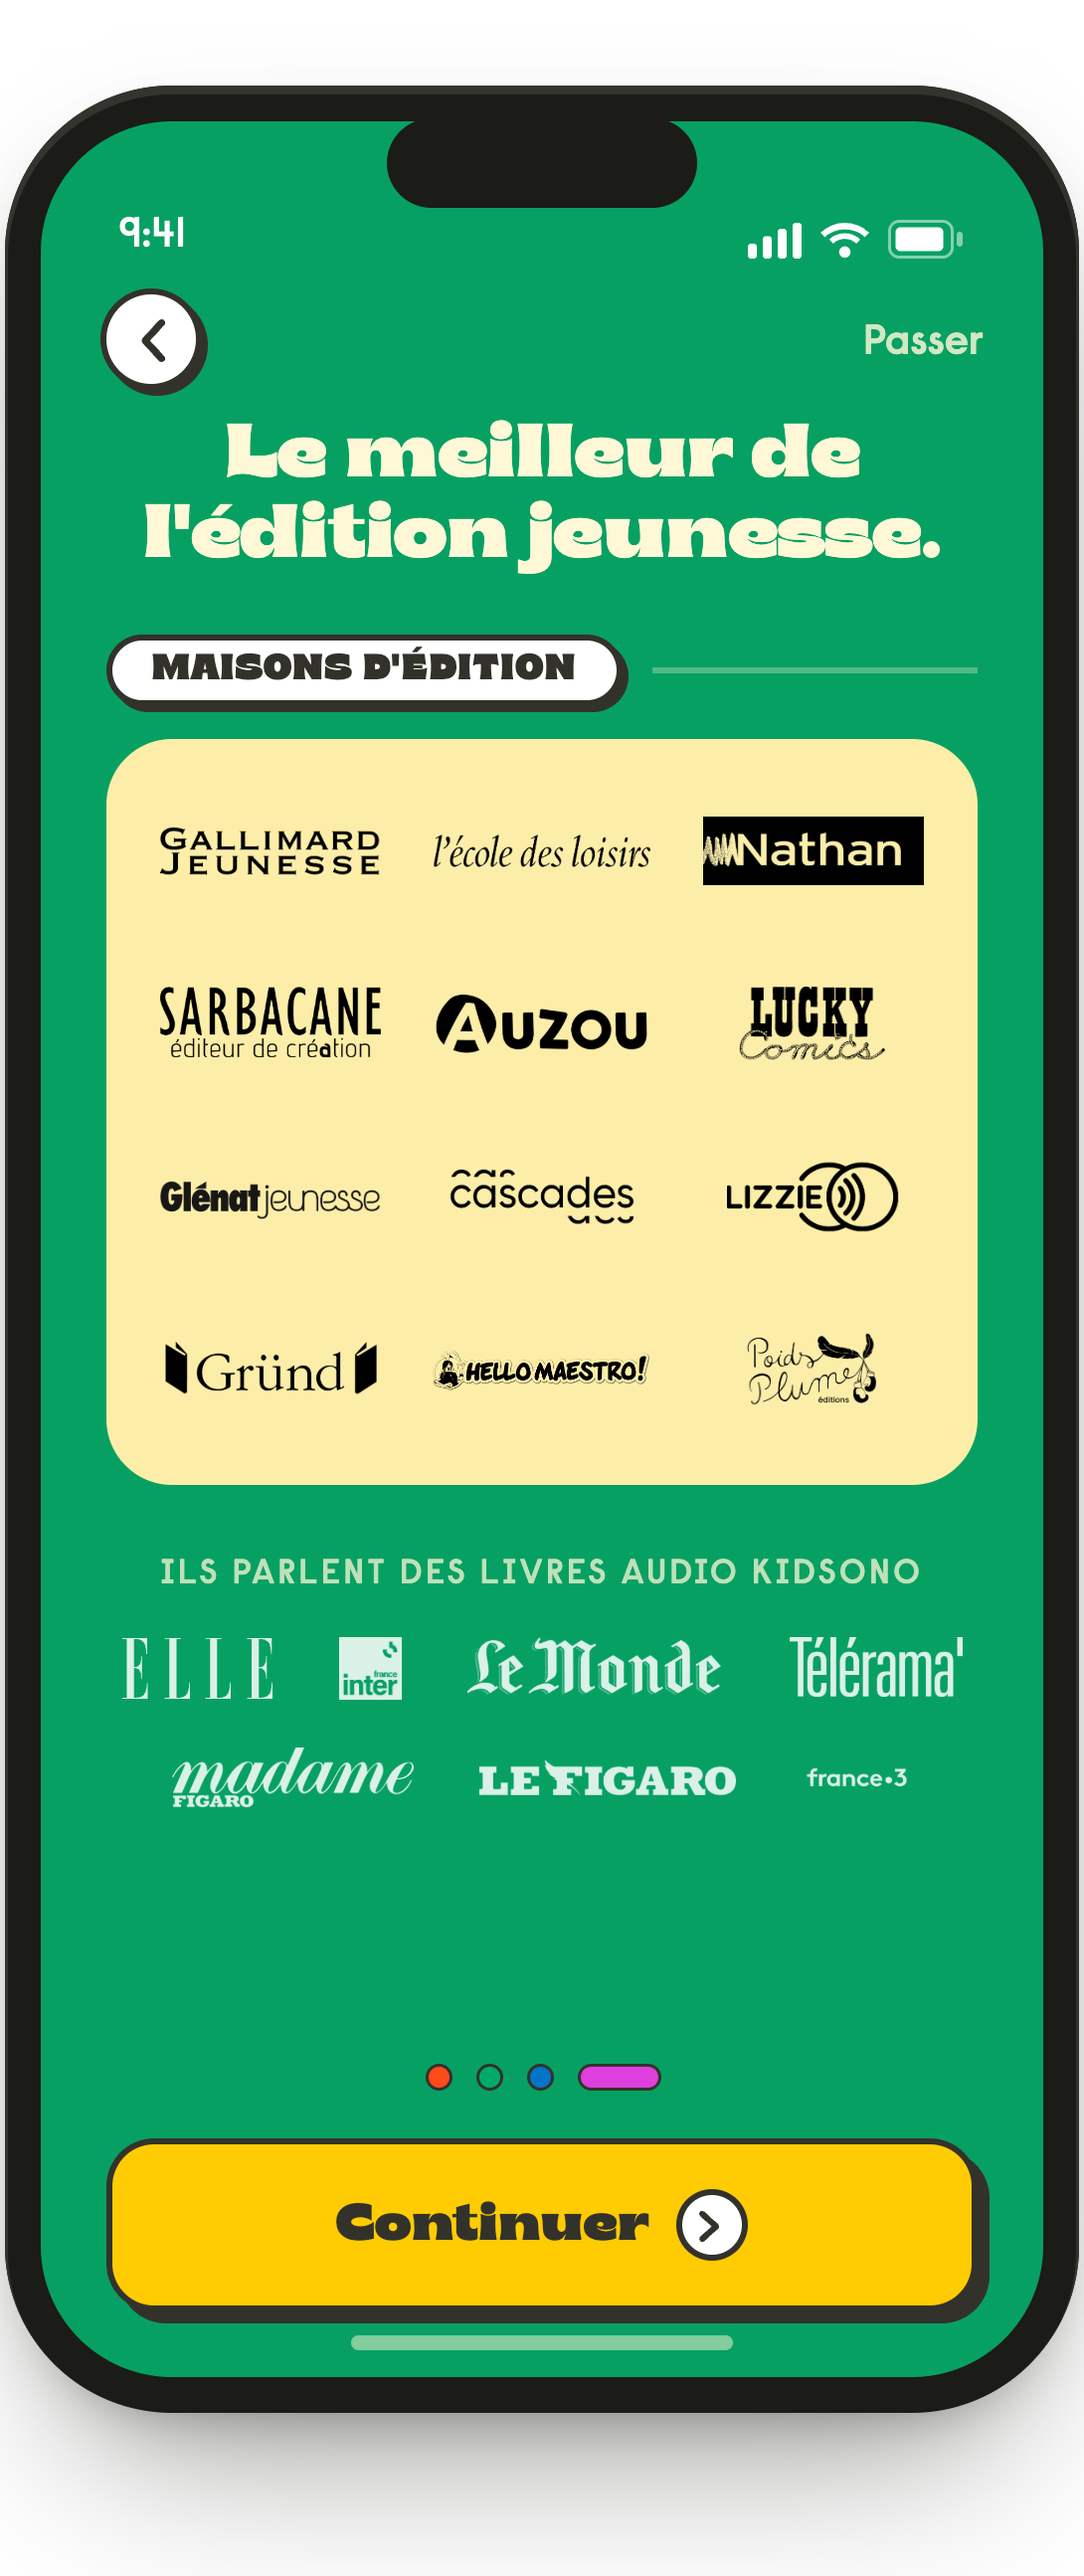
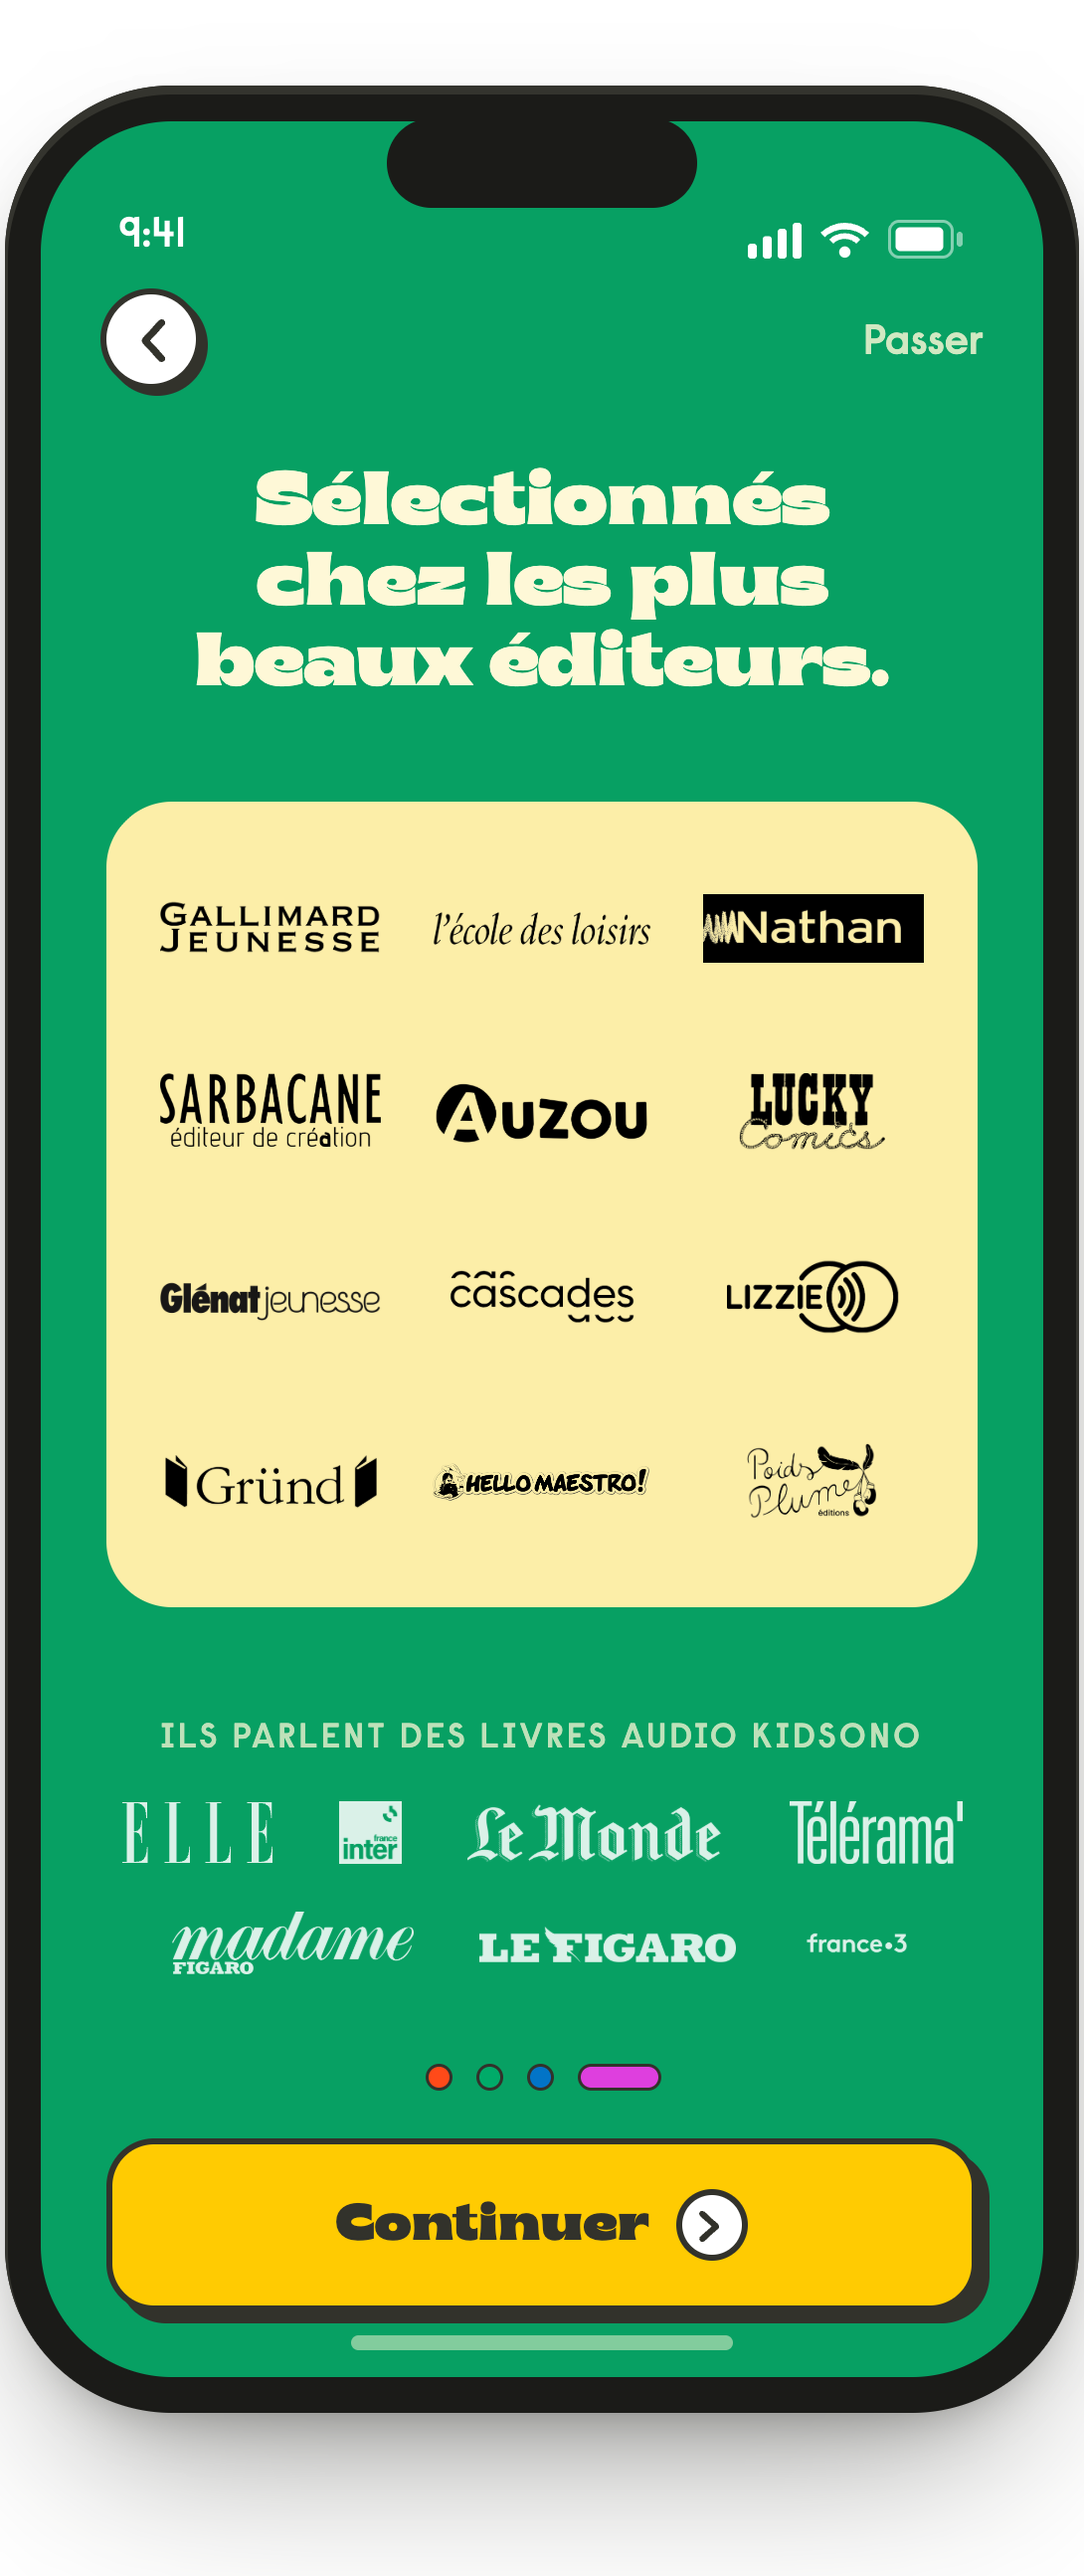
feat(kidsono): variation catalogue (nouvelle en principal + ancienne en dessous), securite et autorite mises a jour

Changed region(s): [[0.0936, 0.1544, 0.9046, 0.7722]]

diff --git a/kidsono-analyses-onboarding/presentation-client-ecrans.html b/kidsono-analyses-onboarding/presentation-client-ecrans.html
@@ -56,6 +56,8 @@
   .scard ul li{font-size:10px;line-height:1.36;color:#444;padding-left:11px;position:relative;}
   .scard ul li::before{content:"";position:absolute;left:0;top:5px;width:5px;height:5px;border-radius:50%;background:var(--fc);}
   .scard ul li b{color:#191919;}
+  .scard .variation{margin-top:11px;border-top:1px dashed var(--border);padding-top:10px;}
+  .scard .variation .vlab{font-size:9px;font-weight:800;text-transform:uppercase;letter-spacing:.4px;color:#9a6200;background:#fff7e6;border:1px solid #f0dcae;border-radius:5px;padding:3px 7px;display:inline-block;margin-bottom:8px;}
 
   .garrow{align-self:center;color:#c4c2b8;font-weight:800;font-size:19px;flex:none;padding-top:150px;}
   .conn{flex:none;align-self:center;width:140px;font-size:10.5px;font-weight:700;line-height:1.4;color:#7a4e00;background:#fff7e6;border:1px dashed #f0dcae;border-radius:11px;padding:9px 11px;text-align:center;}
@@ -134,6 +136,10 @@
             <div class="shot"><div class="ph"><b>À venir</b>rendu Claude Design</div><img src="ecrans-finaux-claude-design/valeur-1-catalogue.png" onerror="this.style.display='none';this.parentNode.querySelector('.ph').style.display='flex'"></div>
             <div class="sn">03 · Valeur A</div><div class="nm">Le catalogue</div>
             <ul><li><b>Psycho :</b> le « 500+ » chiffré et les vraies couvertures prouvent par le concret, plus fort qu'une promesse pour une marque sans notoriété</li><li><b>Business :</b> la pastille « tout le catalogue » pose la valeur que l'abonnement débloquera (wording à border pour ne pas laisser croire que tout est gratuit)</li></ul>
+            <div class="variation">
+              <div class="vlab">Autre variation proposée</div>
+              <div class="shot"><div class="ph"><b>À venir</b>rendu Claude Design</div><img src="ecrans-finaux-claude-design/valeur-1-catalogue-alt.png" onerror="this.style.display='none';this.parentNode.querySelector('.ph').style.display='flex'"></div>
+            </div>
           </div>
           <div class="scard">
             <div class="shot"><div class="propmock">
